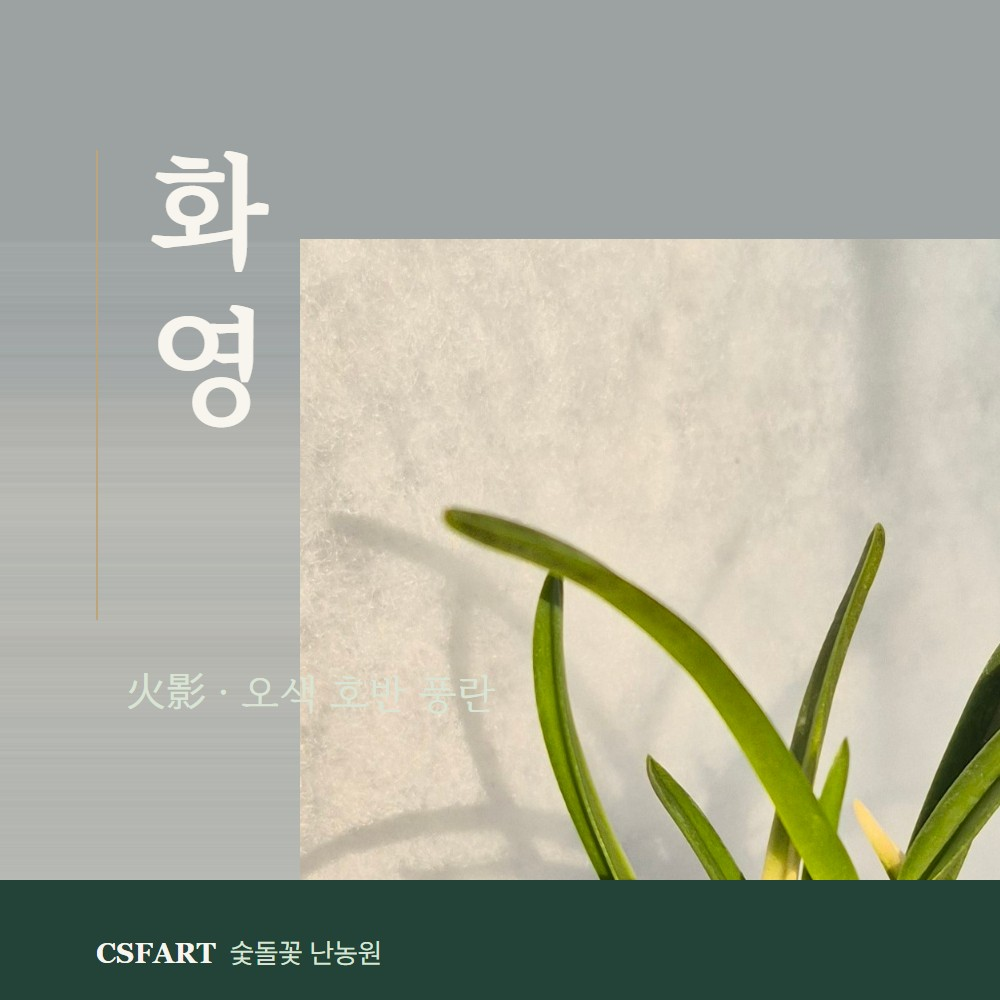
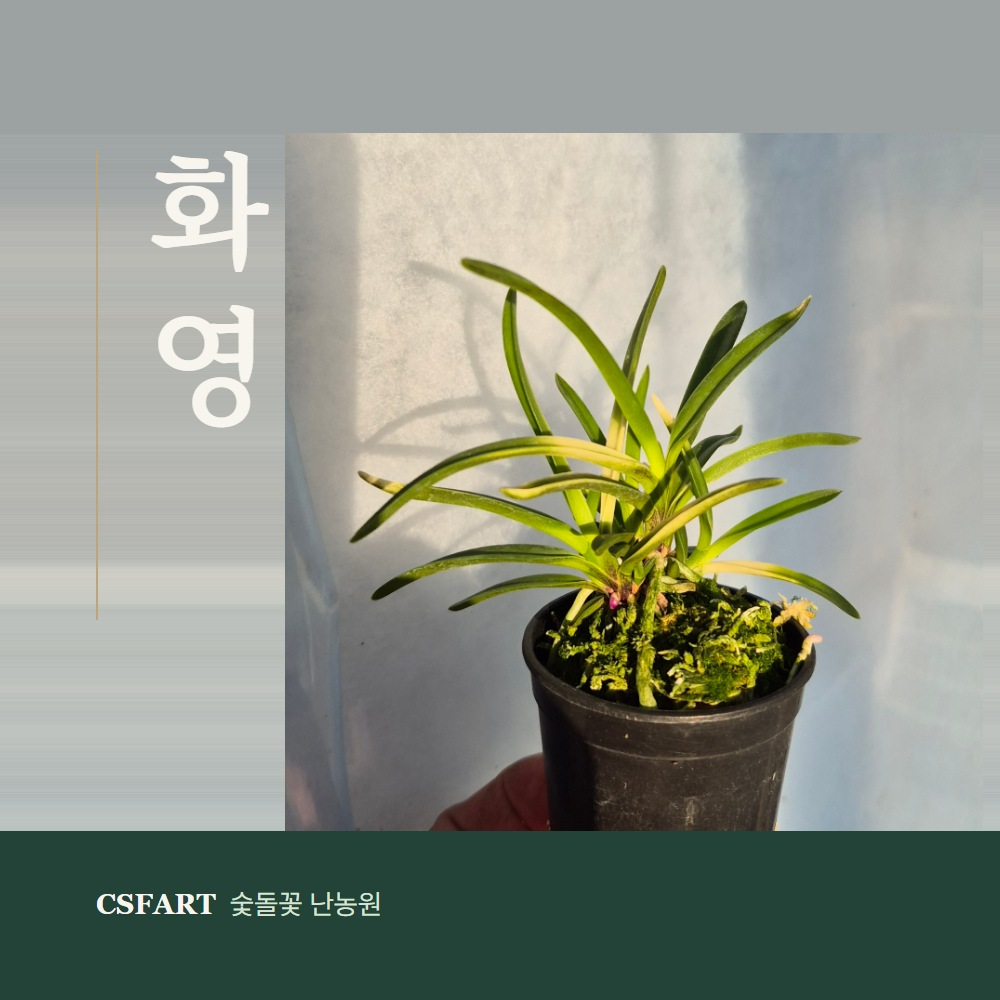
Fix Hwayeong home navigation cover crop and brand label

diff --git a/product/hwayeong-0001.html b/product/hwayeong-0001.html
@@ -3,7 +3,7 @@
 <meta name="description" content="화영 0001, 판매가 30,000원. 짙은 감색·백색·백황색·황색·봄철 핑크빛의 오색 호반, 루비근, 입엽성 희엽, 노수엽, 니축·월형 붙음매.">
 <link rel="canonical" href="https://gomire-csfart.github.io/csfart-catalog/product/hwayeong-0001.html">
 <link rel="stylesheet" href="../images/hwayeong0001/hwayeong_site.css"></head><body>
-<header class="header"><div class="header-in"><a class="brand" href="../index.html"><b>CSFART</b>숯돌꽃 난농원</a><a class="mobile-all-products" href="../index.html">전체 상품</a><nav class="nav"><a href="#traits">화영의 매력</a><a href="#roots">루비근</a><a href="#care">관리</a><a href="#buy">구매</a></nav></div></header>
+<header class="header"><div class="header-in"><a class="brand" href="../index.html"><b>CSFART</b>숯돌꽃 난농원</a><a class="mobile-all-products" href="../index.html" aria-label="카탈로그 홈으로 이동">홈</a><nav class="nav"><a class="home-link" href="../index.html" aria-label="카탈로그 홈으로 이동">홈</a><a href="#traits">화영의 매력</a><a href="#roots">루비근</a><a href="#care">관리</a><a href="#buy">구매</a></nav></div></header>
 <main class="page"><section class="hero"><div class="photo"><img src="../images/hwayeong0001/r4.jpg" alt="화영 0001 오색 호반의 잎과 루비근 생장점, 원본 실사" ></div>
 <div class="hero-copy"><span class="eyebrow">CSFART · 오색 호반 풍란</span><div class="gold-line"></div><h1>화영(火影) 0001</h1>
 <p class="type">화영 · 호반 · 루비근</p>

diff --git a/images/hwayeong0001/hwayeong_site.css b/images/hwayeong0001/hwayeong_site.css
@@ -2,3 +2,7 @@
 .detail-gallery{max-width:840px;margin:0 auto 90px}.detail-gallery figure{margin:0 0 13px}.detail-gallery img{display:block;width:100%;height:auto;aspect-ratio:1;object-fit:contain}.detail-gallery .section-head{margin-bottom:24px}@media(max-width:700px){.detail-gallery{margin-bottom:55px}.detail-gallery figure{margin-bottom:7px}}
 
 .detail-gallery{max-width:840px;margin:0 auto 90px}.detail-gallery figure{margin:0 0 13px}.detail-gallery img{display:block;width:100%;height:auto;aspect-ratio:1;object-fit:contain}.detail-gallery .section-head{margin-bottom:24px}@media(max-width:700px){.detail-gallery{margin-bottom:55px}.detail-gallery figure{margin-bottom:7px}}
+
+/* Hwayeong 0001: visible return-to-catalog home control */
+.nav .home-link{display:inline-flex;align-items:center;justify-content:center;padding:5px 13px;background:var(--sage-soft);color:var(--forest);border:1px solid var(--gold);border-radius:6px;font-weight:700}
+.nav .home-link:hover{background:var(--sage)}
